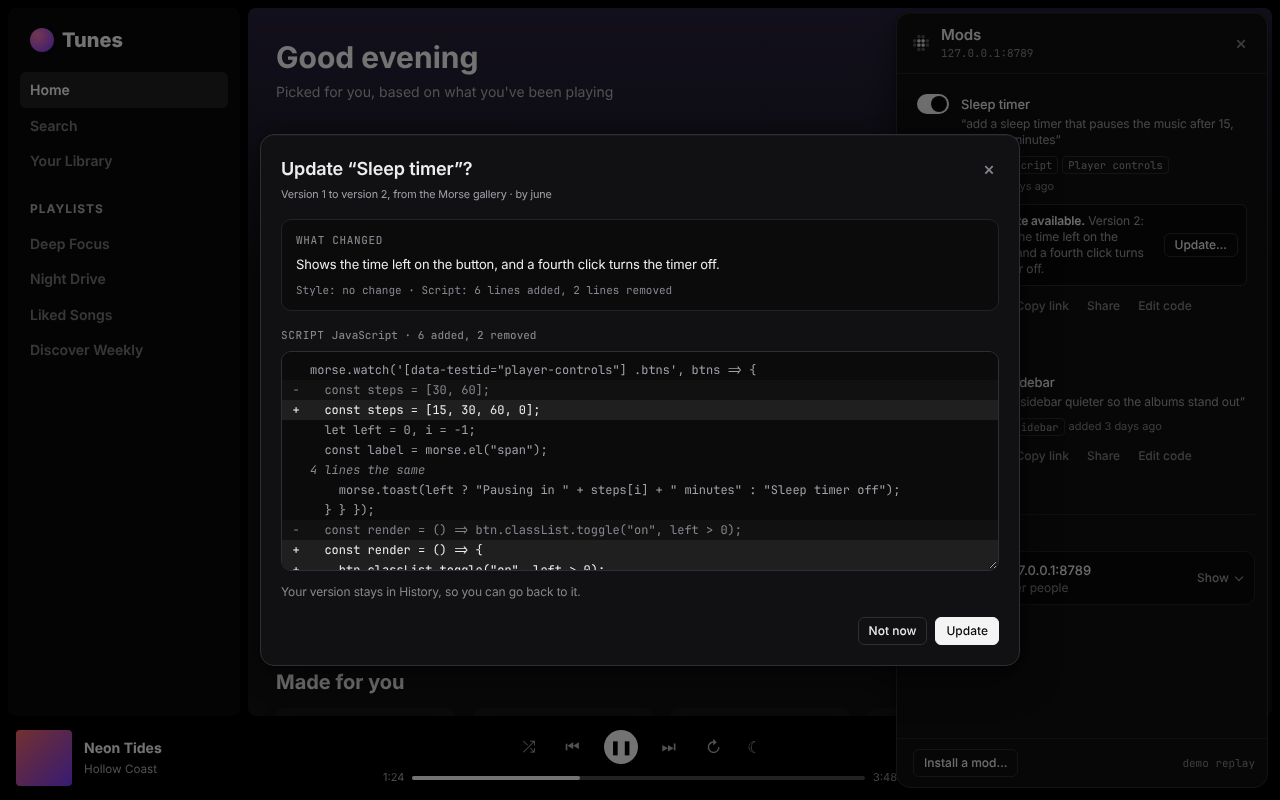
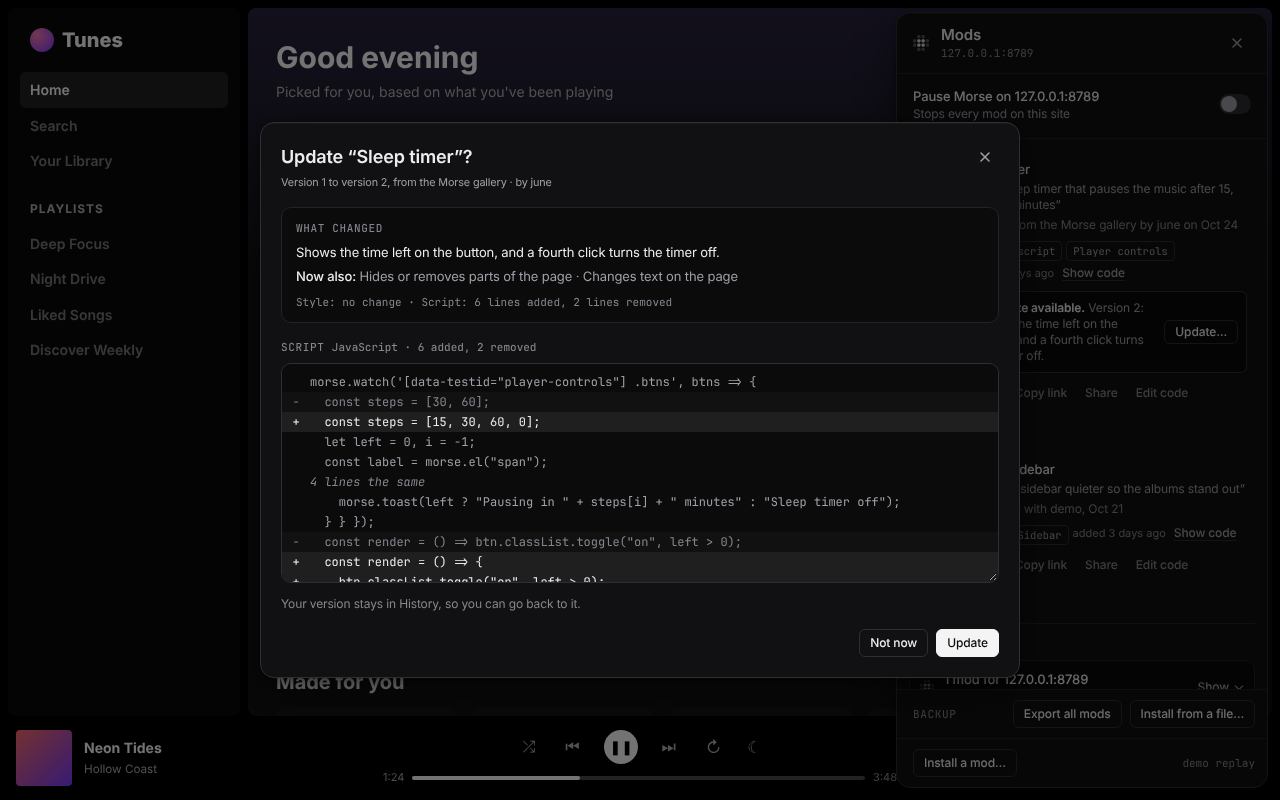
Mods for this site on the new install review and summary
With core/summary.js and the review in 63-control.js now on main, items
use the same plain lines as the review (the ones that say most first),
Install… opens reviewImport, and a mod installed from the gallery says
"Installed from the Morse gallery by <author>" in the panel (one hook
line in modOrigin). Opening For this site from the chip scrolls it to the
top. Tests and screenshots follow the new review and panel.

Claude-Session: https://claude.ai/code/session_01JPQNdGmAR6LVbeAzJZFfz3

diff --git a/tests/gallery-ui.test.js b/tests/gallery-ui.test.js
@@ -102,7 +102,7 @@ test("the empty bar suggests the mods others made for this site; nothing is fetc
   await ui(".panel .gl-site.open").waitFor();
   const items = ui(".panel .gl-item");
   assert.equal(await items.count(), 2);
-  assert.match(await items.nth(0).textContent(), /Sleep timer.*“add a sleep timer that pauses the music after 15, 30 or 60 minutes”.*Adds buttons.*by june · version 2/s);
+  assert.match(await items.nth(0).textContent(), /Sleep timer.*“add a sleep timer that pauses the music after 15, 30 or 60 minutes”.*Adds buttons to the page.*by june · version 2/s);
   assert.match(await items.nth(1).textContent(), /Bigger rounded covers.*Changes how the page looks.*by kairo/s);
   assert.equal(indexHits, 1);
 });
@@ -141,6 +141,7 @@ test("Keep saves a tried mod, with where it came from", { skip }, async () => {
   assert.equal(mod.imported, true);
   assert.deepEqual(mod.match.hosts, [`127.0.0.1:${port}`]);
   await ui('.panel article[data-id="tunes-big-covers"]').waitFor();
+  assert.match(await ui('.panel article[data-id="tunes-big-covers"]').textContent(), /Installed from the Morse gallery by kairo/);
   assert.equal(await ui('.gl-item[data-glid="tunes-big-covers"]').count(), 0, "installed mods leave For this site");
   assert.match(await ui(".gl-head").textContent(), new RegExp(`1 mod for 127\\.0\\.0\\.1:${port}`));
   assert.equal(await grid.evaluate(e => getComputedStyle(e).columnGap), "24px", "still applied, now as a saved mod");
@@ -150,9 +151,10 @@ test("Install… goes through the install review, and nothing installs until you
   await ui('.gl-item[data-glid="tunes-sleep-timer"] [data-gl=install]').click();
   const card = ui(".modal .card");
   await card.waitFor();
-  assert.match(await card.locator("header").textContent(), /Install “Sleep timer”\?/);
-  assert.match(await card.textContent(), new RegExp(`It will run on 127\\.0\\.0\\.1:${port}`));
-  assert.ok(await card.locator("textarea.code").count() >= 1, "the code is shown before installing");
+  assert.match(await card.locator("header").textContent(), /Install “Sleep timer”\?.*Nothing is installed until you press Install/s);
+  assert.match(await card.textContent(), /What it does.*Adds buttons to the page/s);
+  assert.match(await card.textContent(), /made by june/);
+  assert.equal(await card.locator(".ctl-code pre").count(), 2, "the code is there before installing");
   assert.equal(await exists(modFile("tunes-sleep-timer")), false);
   await card.locator("[data-a=install]").click();
   await until(() => exists(modFile("tunes-sleep-timer")));
@@ -160,6 +162,7 @@ test("Install… goes through the install review, and nothing installs until you
   assert.deepEqual(mod.gallery, { id: "tunes-sleep-timer", version: 2 });
   await page.locator(".morse-sleep").waitFor();
   await ui('.panel article[data-id="tunes-sleep-timer"]').waitFor();
+  assert.match(await ui('.panel article[data-id="tunes-sleep-timer"]').textContent(), /Installed from the Morse gallery by june/);
   assert.equal(await ui(".gl-site").count(), 0, "every mod for this site is installed");
 });
 

diff --git a/runtime/src/68-gallery.js b/runtime/src/68-gallery.js
@@ -22,11 +22,17 @@ const Gallery = (() => {
   const where = () => S.appName || st.site || location.host || "this site";
   const countText = n => `${n} mod${n === 1 ? "" : "s"} for ${where()}`;
 
-  // What a mod does, in a few words. core/summary.js (the install review's
-  // summary) when the runtime has it, else core/gallery.js briefSummary.
+  // What a mod does, in a few words: core/summary.js (the same lines as the
+  // install review), the ones that say most first; core/gallery.js
+  // briefSummary for a runtime without it.
+  const FIRST = ["network", "typing", "buttons", "adds", "hides", "text", "clicks", "acts", "storage", "cookies", "clipboard", "navigates", "loads", "device", "notify", "ongoing", "looks", "dynamic"];
   function summarize(mod) {
     if (typeof summarizeMod === "function") {
-      try { return summarizeMod(mod).items.filter(i => i.id !== "code").map(i => i.text); } catch {}
+      try {
+        const rank = i => (FIRST.includes(i.id) ? FIRST.indexOf(i.id) : FIRST.length);
+        const items = summarizeMod(mod).items, buttons = items.some(i => i.id === "buttons");
+        return items.filter(i => i.id !== "code" && !(buttons && i.id === "adds")).sort((a, b) => rank(a) - rank(b)).map(i => i.text);
+      } catch {}
     }
     return briefSummary(mod);
   }
@@ -53,7 +59,7 @@ const Gallery = (() => {
   const installedOf = e => S.mods.find(m => galleryIdOf(m) === e.id);
   const fresh = () => (PREFS.gallery ? st.items.filter(e => !installedOf(e)) : []);
   const byId = id => st.items.find(e => e.id === id);
-  const installable = e => ({ ...e.mod, enabled: true, imported: true, gallery: { id: e.id, version: e.mod.version ?? e.version } });
+  const installable = e => ({ ...e.mod, ...(e.mod.author || !e.author ? {} : { author: e.author }), enabled: true, imported: true, gallery: { id: e.id, version: e.mod.version ?? e.version } });
 
   // ---- the Mods panel (70-panel.js hooks)
   function sectionHtml() {
@@ -136,7 +142,7 @@ const Gallery = (() => {
     const t = st.trial, e = t && byId(t.id);
     if (!e) return endTrial({ quiet: true });
     const now = new Date().toISOString();
-    const mod = { ...installable(e), created: now, updated: now };
+    const mod = { ...installable(e), importedFrom: "gallery", importedAt: now, created: now, updated: now };
     try { await call("mods.save", { mod }); }
     catch (err) { return toast(`Couldn't save “${t.title}”. ${plainError(err)}`); }
     st.trial = null;
@@ -291,7 +297,7 @@ const Gallery = (() => {
     await openPanel();
     const sec = panel.querySelector(".gl-site");
     if (!sec) return;
-    sec.scrollIntoView({ block: "nearest" });
+    sec.scrollIntoView({ block: "start" });
     sec.querySelector("[data-gl=try], [data-gl=install]")?.focus({ preventScroll: true });
   }
 

diff --git a/tests/gallery.test.js b/tests/gallery.test.js
@@ -12,6 +12,7 @@ import {
 import { createGallery } from "../core/gallery-host.js";
 import { modMatches, validateMod, SHARE_BASE } from "../core/mod.js";
 import { normalizePrefs, mergePrefs } from "../core/prefs.js";
+import { modOrigin } from "../core/summary.js";
 
 const SITE = new URL("../site/mods/", import.meta.url);
 const realIndex = () => readFileSync(new URL("index.json", SITE), "utf8");
@@ -124,6 +125,9 @@ test("an installed mod knows where it came from and whether there's a newer one"
   // Made here: never a gallery mod, whatever its id.
   assert.equal(galleryIdOf({ id: "other" }), null);
   assert.equal(updateFor({ id: "other", version: 0 }, entries), null);
+  // The Mods panel says so.
+  assert.match(modOrigin({ ...fromPanel, author: "june", importedAt: "2026-10-01T10:00:00Z" }), /^Installed from the Morse gallery by june on /);
+  assert.match(modOrigin(fromLink), /^Installed from a shared link/);
 });
 
 // ---- when to fetch again

diff --git a/core/summary.js b/core/summary.js
@@ -159,6 +159,7 @@ export function modOrigin(mod) {
     } catch { return ""; }
   };
   const by = typeof mod?.author === "string" && mod.author.trim() ? ` by ${mod.author.trim().slice(0, 60)}` : "";
+  if (mod?.imported && mod.gallery?.id) return `Installed from the Morse gallery${by}${mod.importedAt ? ` on ${day(mod.importedAt)}` : ""}`; // gallery hook (68-gallery.js)
   if (mod?.imported) {
     const how = mod.importedFrom === "file" ? "Imported from a file" : mod.importedFrom === "backup" ? "Restored from a backup" : "Installed from a shared link";
     const when = mod.importedAt ? ` on ${day(mod.importedAt)}` : "";

diff --git a/demo/shoot-gallery.js b/demo/shoot-gallery.js
@@ -79,6 +79,10 @@ await page.keyboard.press("End");
 await sleep(150);
 await page.keyboard.press("Enter");
 await ui(".panel .gl-site.open .gl-item").first().waitFor();
+// The chip scrolls the panel to the section; the shot shows it under your own mods.
+await ui(".panel header [data-a=close]").click();
+await page.keyboard.press("Alt+Shift+KeyM");
+await ui(".panel .gl-site.open .gl-item").first().waitFor();
 await page.evaluate(() => document.querySelector("[data-morse-ui]").shadowRoot.activeElement?.blur());
 await shot("110-for-this-site.png");
 
